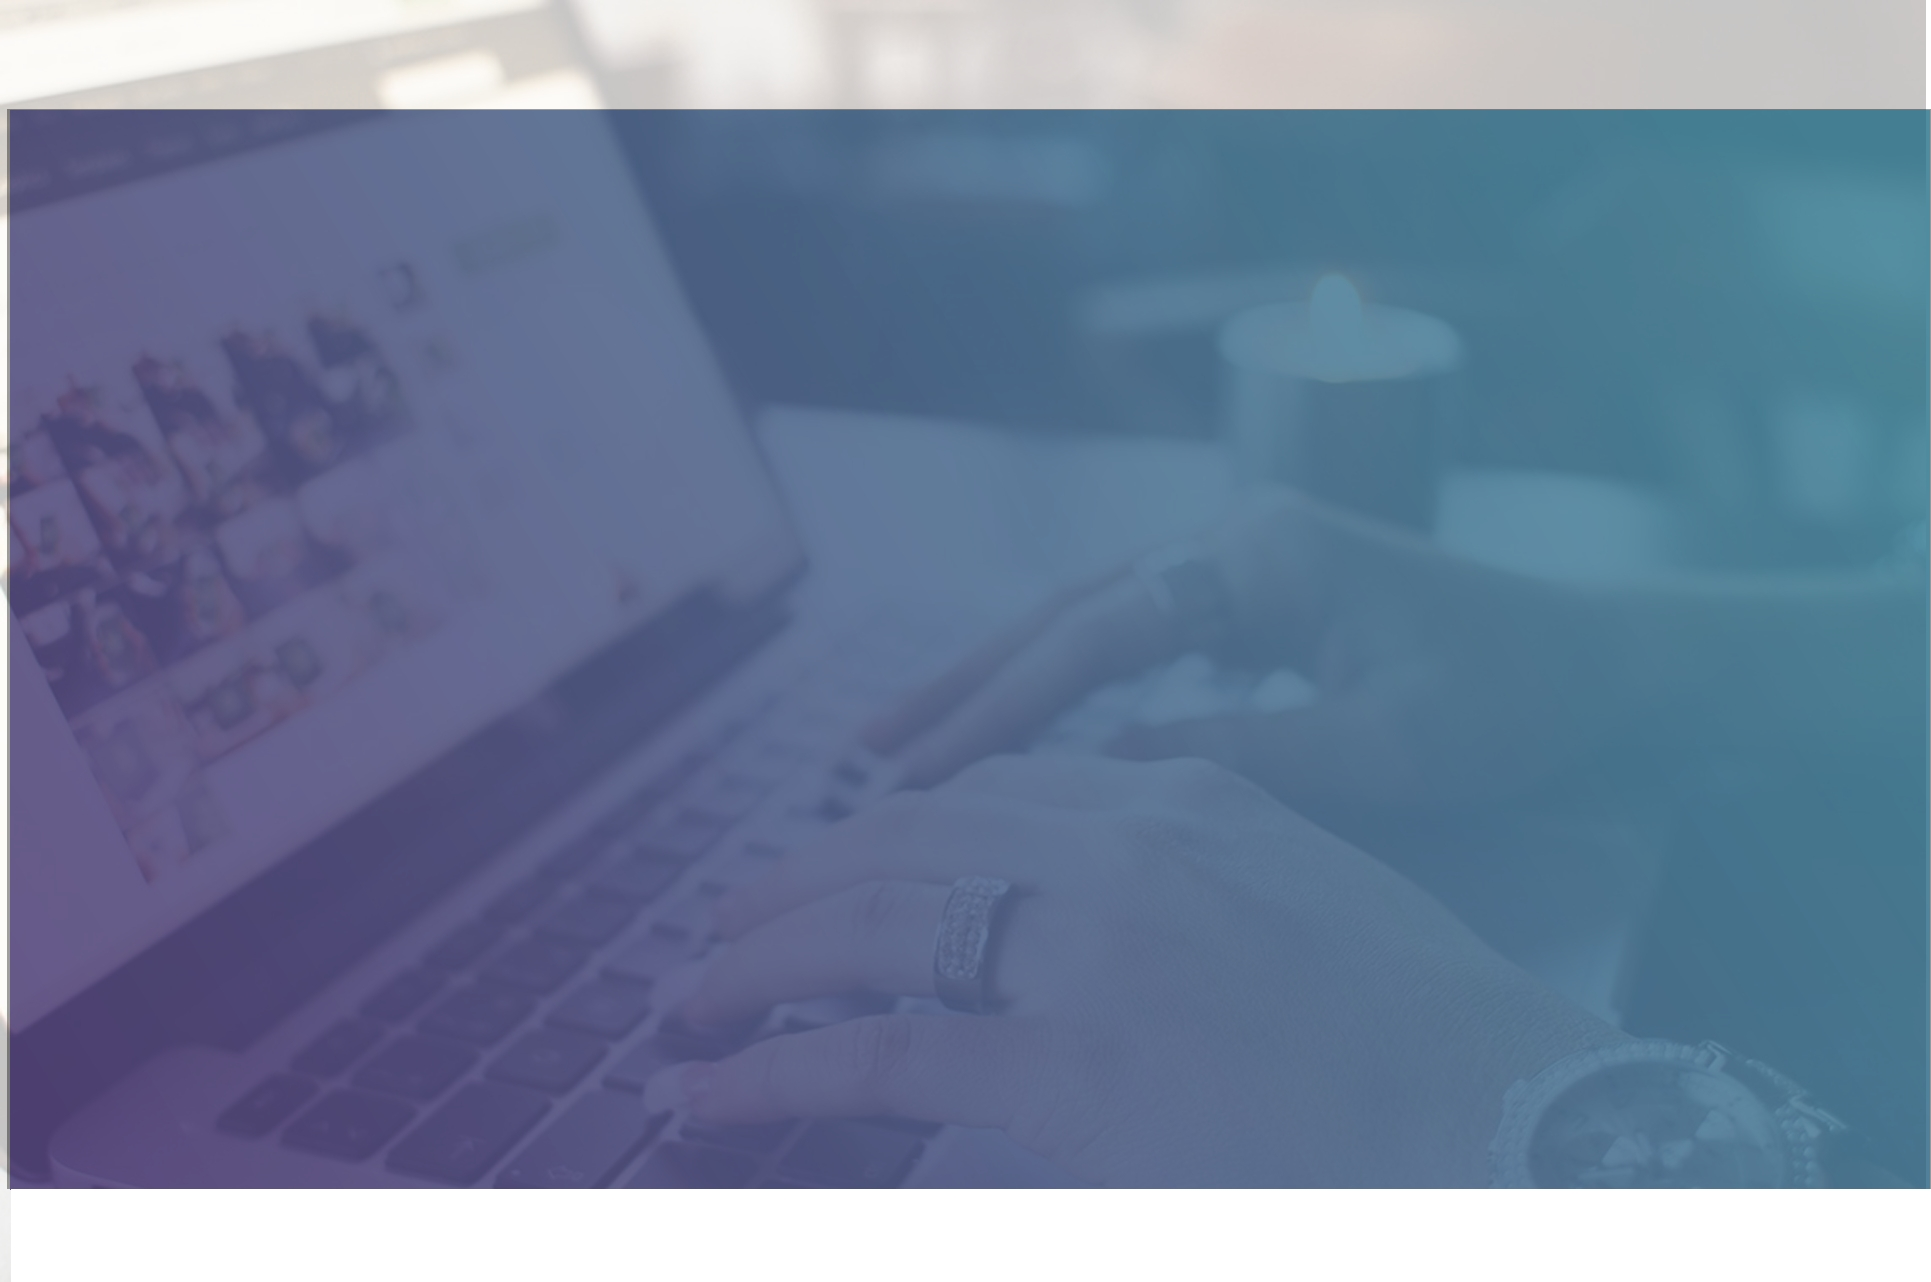
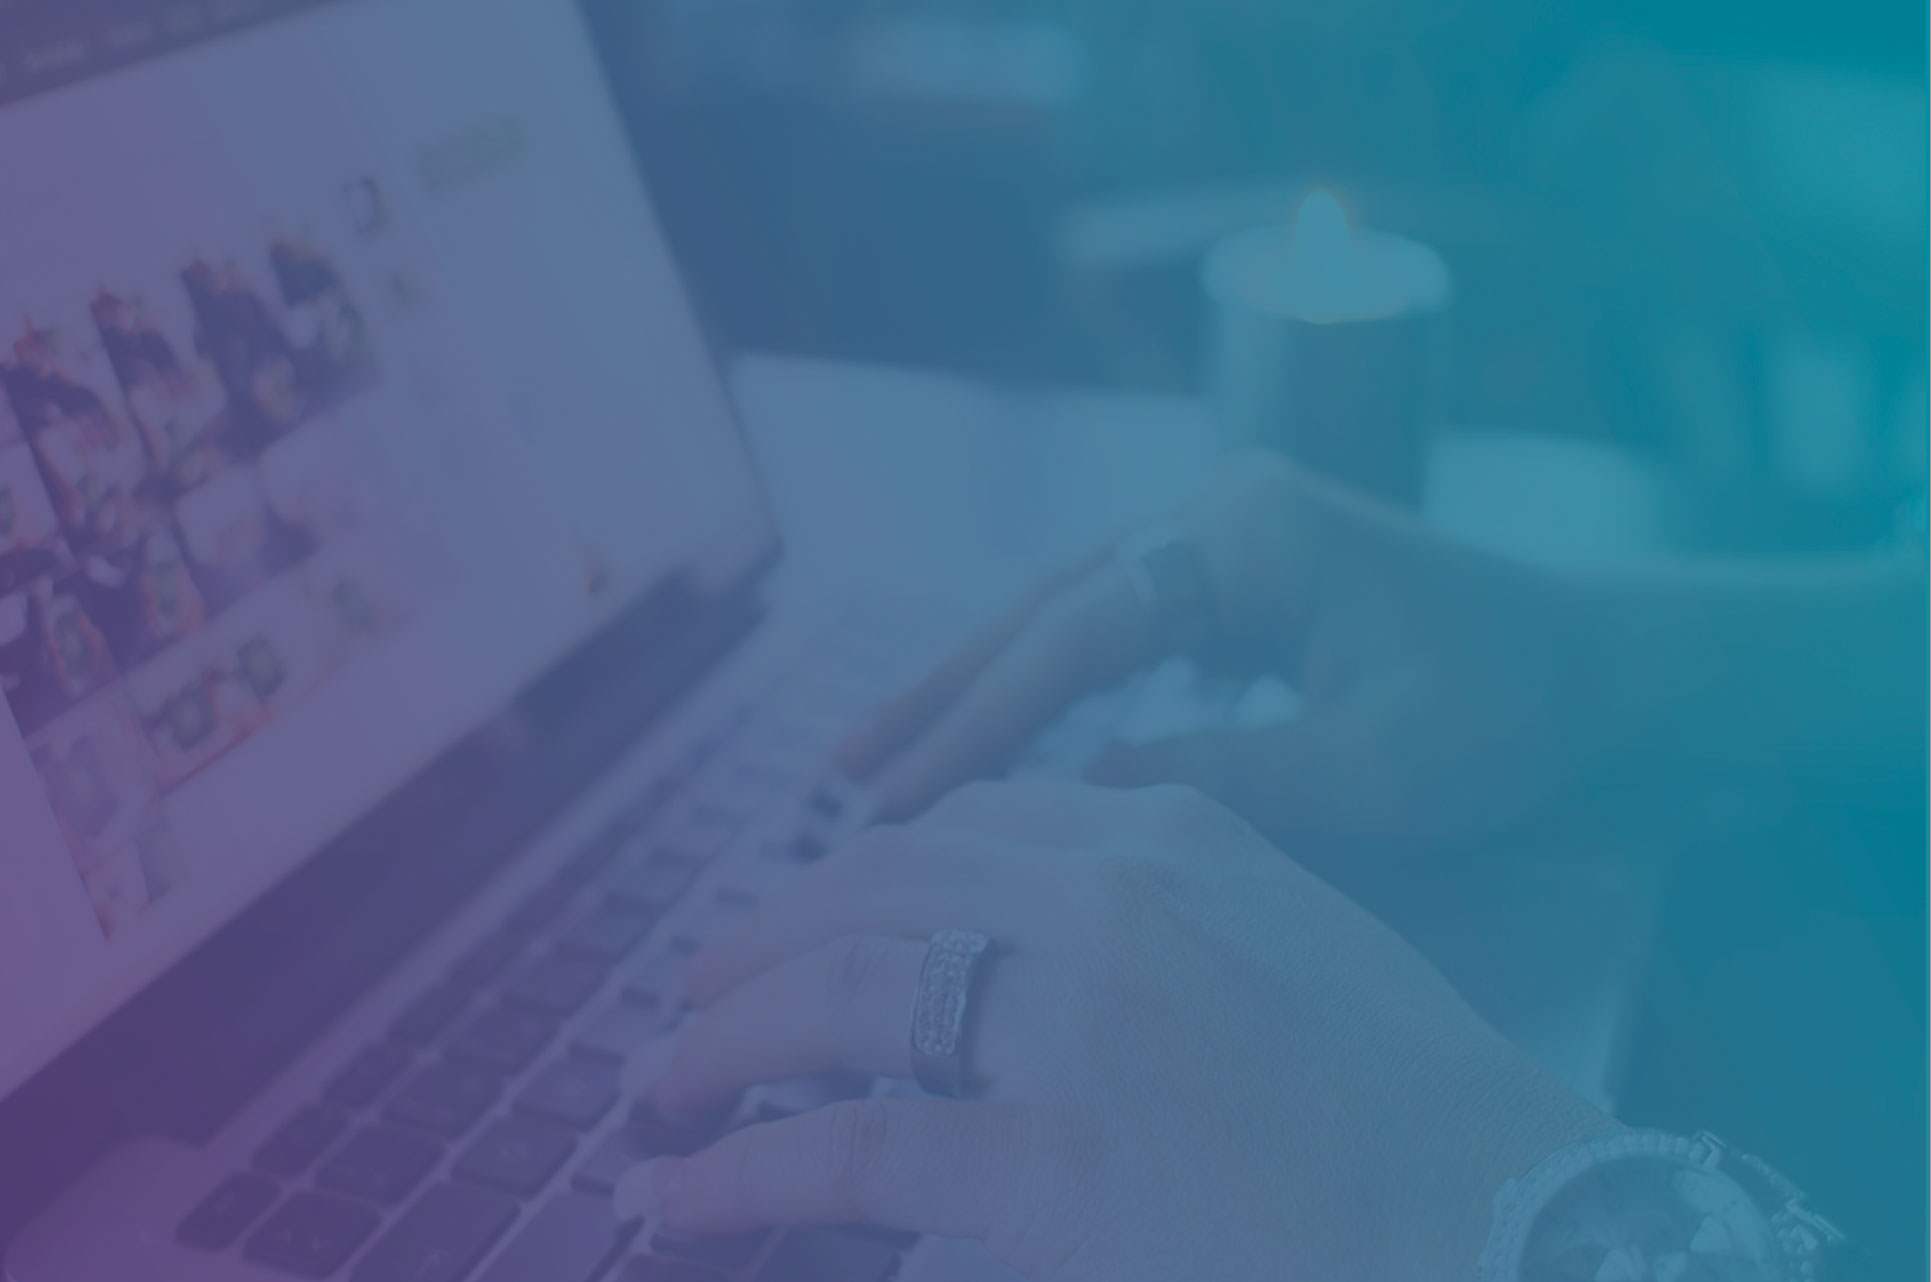
section header

diff --git a/index.html b/index.html
@@ -3,7 +3,7 @@
 <head>
     <meta charset="UTF-8">
     <meta name="viewport" content="width=device-width, initial-scale=1.0">
-    <link href="https://fonts.googleapis.com/css2?family=Lato:wght@300;400;700&display=swap" rel="stylesheet">
+    <link href="https://fonts.googleapis.com/css2?family=Lato:ital,wght@0,400;0,700;0,900;1,300&display=swap" rel="stylesheet">
     <link rel="stylesheet" href="normalize.css">
     <link rel="stylesheet" href="style.css">
     <title>Binary</title>
@@ -13,15 +13,20 @@
     <section class="header header-image">
         <div class="wrapper">
             <div class="header__logo">
-                <img src="" alt="logo">
+                <img src="./img/Layer_33_copy_2.png" alt="logo">
             </div>
-            <div class="header__title">Clear, smart, attractive design</div>
-            <div class="header__text">for your app, logo, website</div>
+            <div class="header__promo">
+                <div class="header__title">Clear, smart, attractive design</div>
+                <div class="header__text">for your app, logo, website</div>
+            </div>
+            <div class="header__line">
+                <img src="./img/Line.png" alt="line">
+            </div>
             <div class="header__button btn">Read more</div>
-            <div class="header__down">
-                <img src="" alt="down__bar">
-            </div>
-            <nav class="menu">
+            <a class="header__down">
+                <img src="./img/Arrow-down.png" alt="down__bar">
+            </a>
+            <!-- <nav class="menu">
                 <a href="#" class="menu__link">
                     <li class="menu__item item">home</li>
                 </a>
@@ -34,7 +39,7 @@
                 <a href="#" class="menu__link">
                     <li class="menu__link item">contact</li>
                 </a>
-            </nav>
+            </nav> -->
         </div>
     </section>
     <!-- header -->

diff --git a/style.css b/style.css
@@ -1,14 +1,73 @@
 *{
     box-sizing: border-box;
 }
+::root{
+    font-size: 14px;
+}
+.html{
+    font-size: 1rem;
+    font-family: 'Lato', Arial, sans-serif;
+}
 .header{
     width: 100%;
-    max-height: 1931px;
+    height: 1232px;
 }
 .header-image{
-    width: 100%;
-    max-height: 1282px;
-    background-image: url("./img/BG-Header.jpg");
+    background-image: url('./img/BG-Header.jpg');
+    background-size: cover;
     background-repeat: no-repeat;
-    background-size: 100% 100%;
+    background-position: center;
+}
+.wrapper{
+    max-width:55%;
+    margin: 0 auto;
+    display: flex;
+    flex-direction: column;
+    justify-content: center;
+    align-items: center;
+}
+.header__logo{
+    margin-top: 11.2em;
+    margin-bottom: 11.2em;
+}
+.header__promo{
+    weight: 100%;
+    max-height: 70px;
+    color: #ffffff;
+    line-height: 2.85em;
+}
+.header__title{
+    text-transform: uppercase;
+    font-size: 2.42em;
+    font-weight: 900;
+    text-align: center;
+    /* letter-spacing: 0.38em; */
+}
+.header__text{
+    font-size: 1.85em;
+    font-weight: 400;
+    letter-spacing: 0.29em;
+    text-align: center;
+}
+.header__line{
+    margin-top: 3em;
+}
+.btn{
+    text-transform: uppercase;
+    min-width: 182px;
+    min-height: 47px;
+    font-size: 1.14em;
+    font-weight: 400;
+    /* letter-spacing: 0.04em; */
+    display: flex;
+    align-items: center;
+    justify-content: center;
+}
+.header__button{
+    color: #ffffff;
+    border: 1px solid #ffffff;
+    margin-top: 16.42em;
+}
+.header__down{
+    margin-top: 5.35em;
 }
